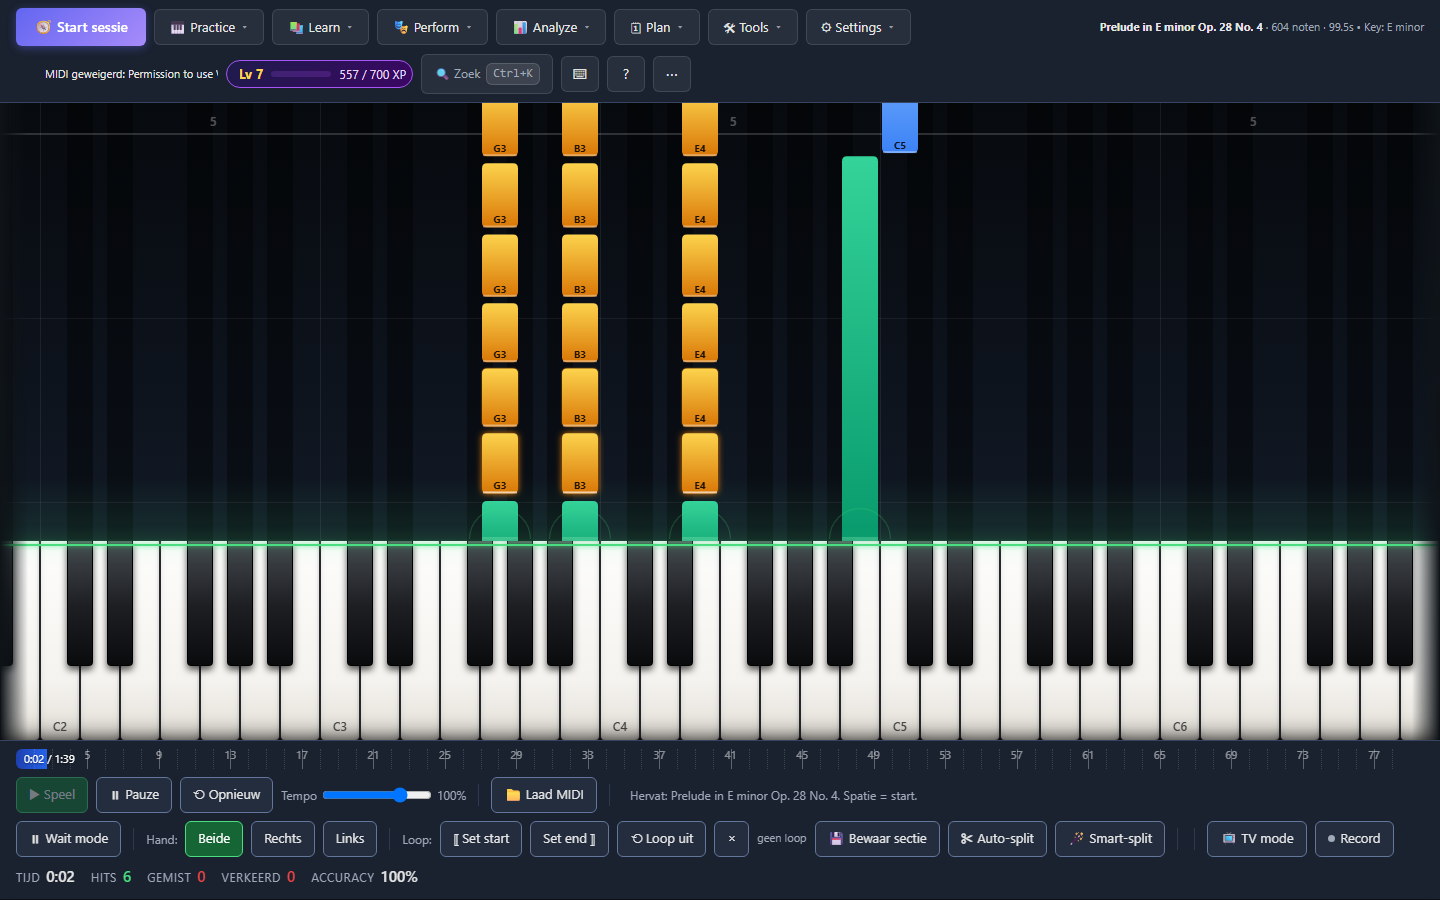
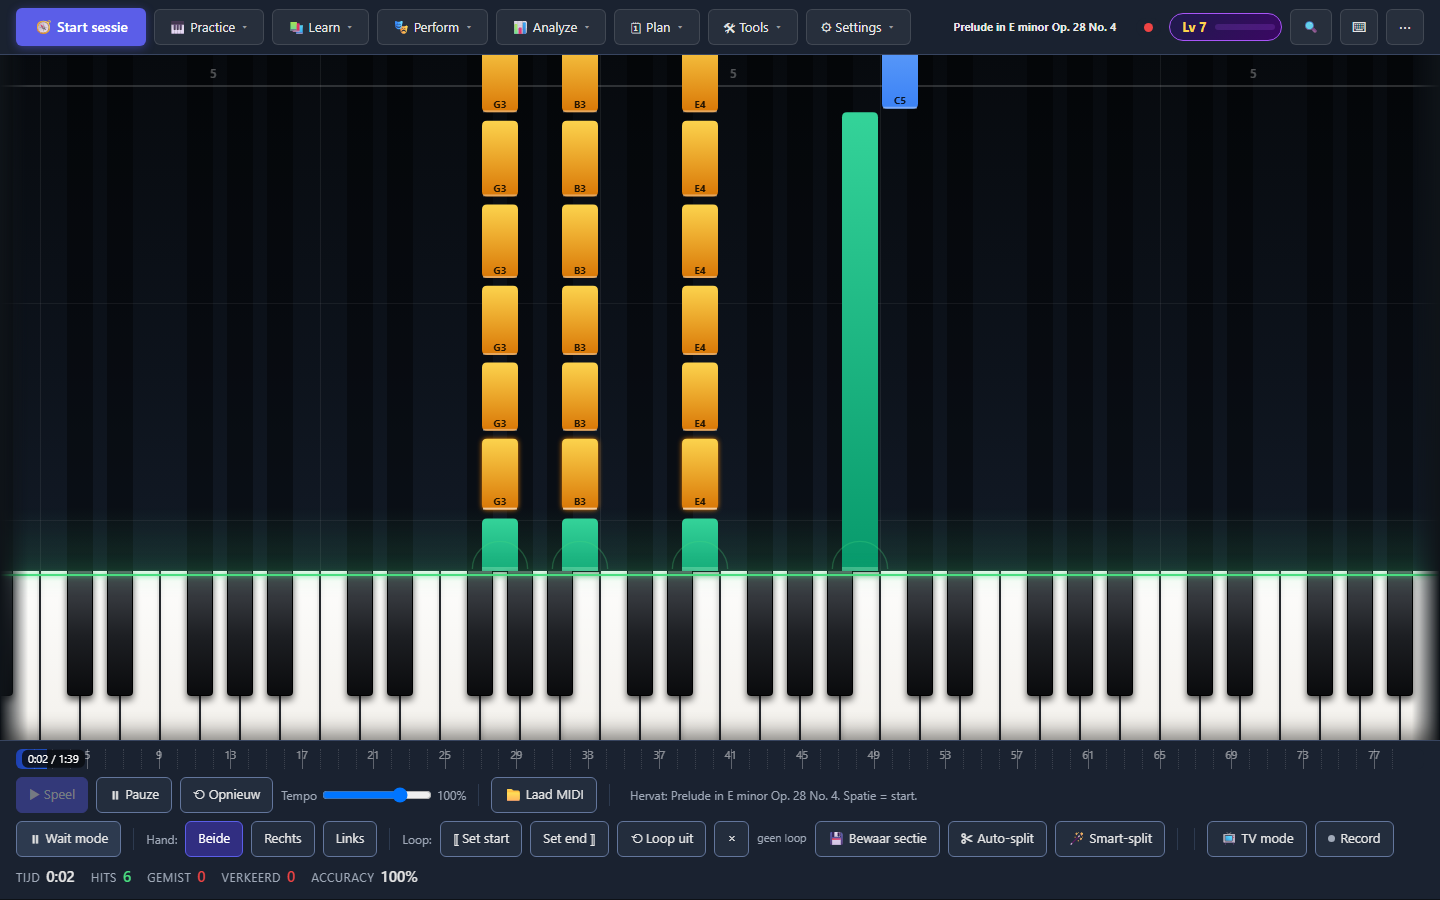
Design-review bijgewerkt met de vier vervolgrondes

diff --git a/design-analyse-2026-08-16.md b/design-analyse-2026-08-16.md
@@ -1,12 +1,20 @@
 # Piano Coach — Design-analyse + stappenplan
 
-> **Status per 16 augustus 2026: alle zes fases zijn uitgevoerd in v0.87** (7 commits, zie `git log`).
-> Resultaat gemeten: chrome boven het speelveld 330px → 103px (desktop) en 995px → 51px (mobiel),
+> **Status per 16 augustus 2026: alle zes fases uitgevoerd in v0.87, plus vier vervolgrondes** (11 commits, zie `git log`).
+> Resultaat gemeten: chrome boven het speelveld 330px → 55px (desktop) en 995px → 51px (mobiel),
 > instrument krijgt 73% van het telefoonscherm, 0 knoppen onder 32px (44px op touch),
 > 0 tekst onder 11px, 0 van 74 tekstelementen onder 4,5:1 contrast, 0 console-errors.
 > Klavier op het scherm is nu overal speelbaar. Voor/na-beelden: `design-review-2026-08-16/na-*.png`.
 > Twee regressies onderweg gevonden en gefixt: circulaire tokens (witte pagina) en thema's die
 > niet meer wisselden. Details staan per fase in de commit-berichten.
+>
+> **Vervolgrondes na het plan:** (2) het accent-conflict uit B2 echt opgelost met één regel —
+> `--brand` = doe dit, `--accent` = muzikaal juist — plus kop van 99 naar 55px en een dock dat
+> zwijgt tot er iets te tellen valt; (3) de eerste-keer-ervaring: twee welkomstschermen na elkaar
+> teruggebracht tot één, de dashboardpanelen onder het dock (chrome bij een lege installatie ging
+> van ~830px naar 55px), en een lege staat die de volgende stap zelf aanbiedt; (4) de doel-toets in
+> wait mode en toegankelijkheid: 56 modals met `role`/`aria-labelledby`, focus-trap, `aria-live`
+> op de sessierail. Prestatie tijdens spelen gemeten: 60fps, 0,12ms per frame.
 
 **Datum:** 16 augustus 2026 · **Versie bekeken:** v0.86 · **Rol:** senior product designer
 **Methode:** headless Chromium op `http://localhost:3457` met de echte backup (`piano-coach-backup-2026-08-16.json`) in localStorage, op 1440×900 en 390×844. Plus statische analyse van de 3.640 CSS-regels en de DOM.
